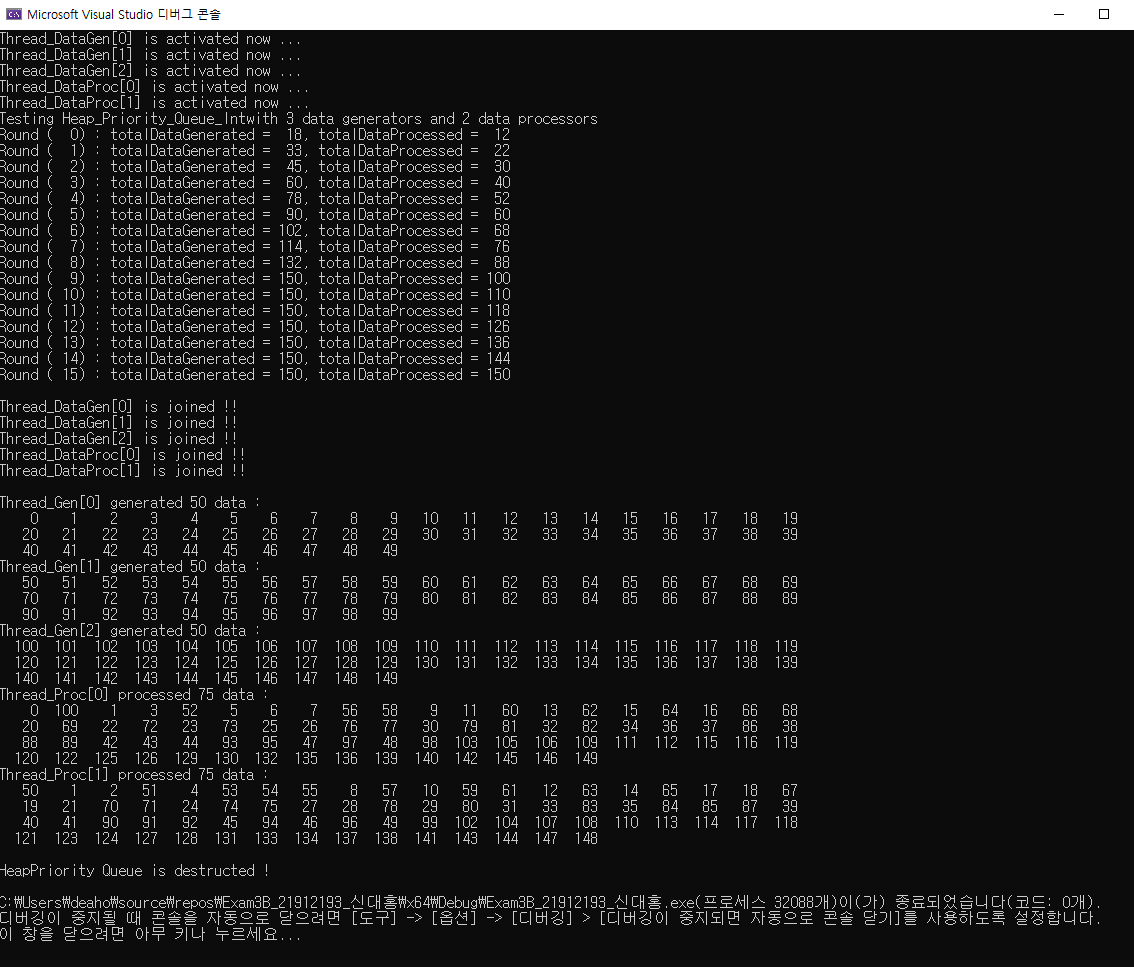
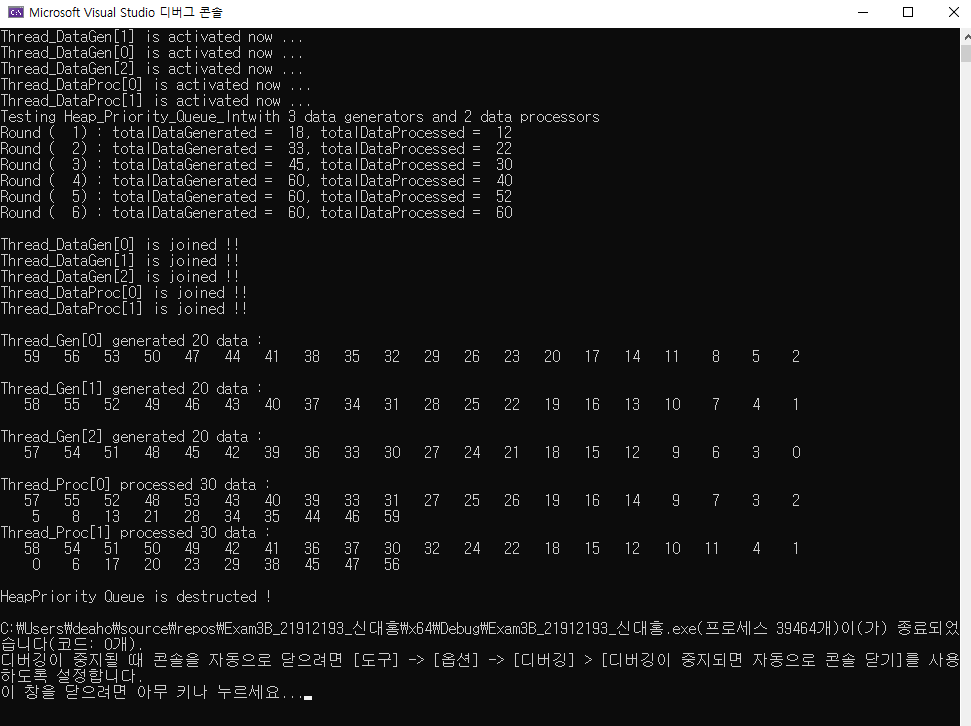
시험 3
시험 3 B번 살짝 수정

Changed region(s): [[0.0, 0.0, 1.0, 1.0], [0.8033, 0.8485, 0.8651, 0.8788], [0.5561, 0.1515, 0.587, 0.1818]]

diff --git a/Exam3/Exam3B/소스코드/main.cpp b/Exam3/Exam3B/소스코드/main.cpp
@@ -71,7 +71,7 @@ int main(void)
 	cout << "Testing " << HeapPriQ_int.Name() << "with " << NUM_DATA_GEN << " data generators and ";
 	cout << NUM_DATA_PROC << " data processors" << endl;
 	thrdMon.mtx_console.unlock();
-	for (int round = 0; round < MAX_ROUNDS; round++)
+	for (int round = 1; round <= MAX_ROUNDS; round++)
 	{
 		thrdMon.mtx_console.lock();
 		cout << "Round (" << setw(3) << round << ") : totalDataGenerated = " << setw(3) << thrdMon.totalNumGenData;

diff --git a/Exam3/Exam3B/소스코드/MultiThread.cpp b/Exam3/Exam3B/소스코드/MultiThread.cpp
@@ -34,7 +34,7 @@ void Thread_DataGen(ThreadParam* pParam)
 				continue;
 			}
 		}
-		genData = round + myAddr * pParam->targetGenData;
+		genData = TOTAL_NUM_DATA - (round * NUM_DATA_GEN + myAddr + 1);
 		while (pPriQ->insert(genData) == NULL)
 		{
 			sleep_for(std::chrono::milliseconds(100));

diff --git a/Exam3/Exam3B/헤더/SimParam.h b/Exam3/Exam3B/헤더/SimParam.h
@@ -7,7 +7,7 @@
 #define QUEUE_SIZE 10
 #define NUM_DATA_GEN 3
 #define NUM_DATA_PROC 2
-#define NUM_DATA_PER_GEN 50
+#define NUM_DATA_PER_GEN 20
 #define TOTAL_NUM_DATA (NUM_DATA_PER_GEN * NUM_DATA_GEN)
 
 #define Milli 1000					// milli second 
